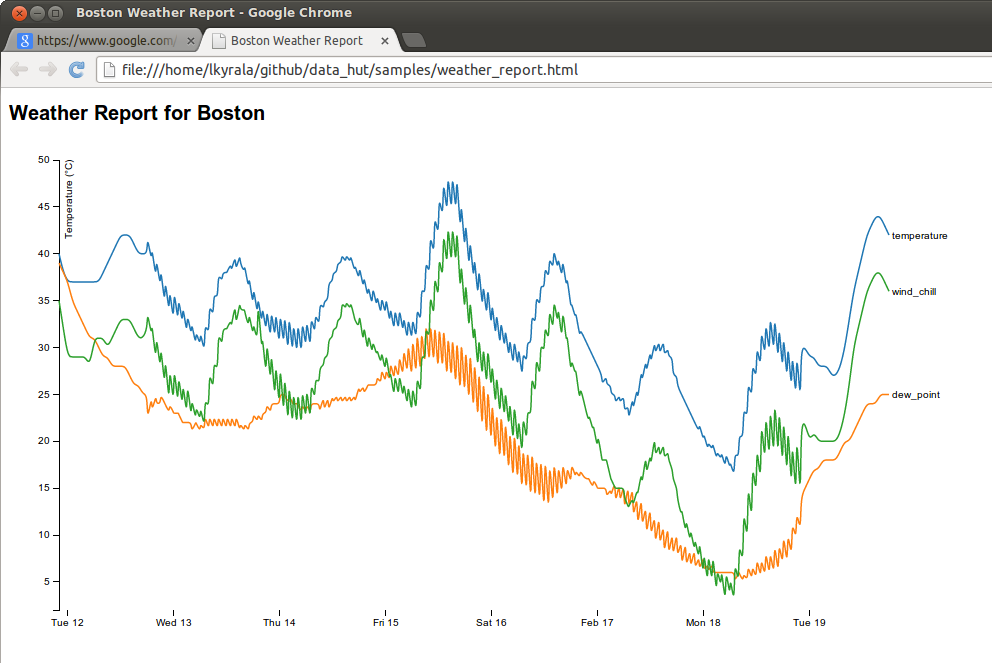
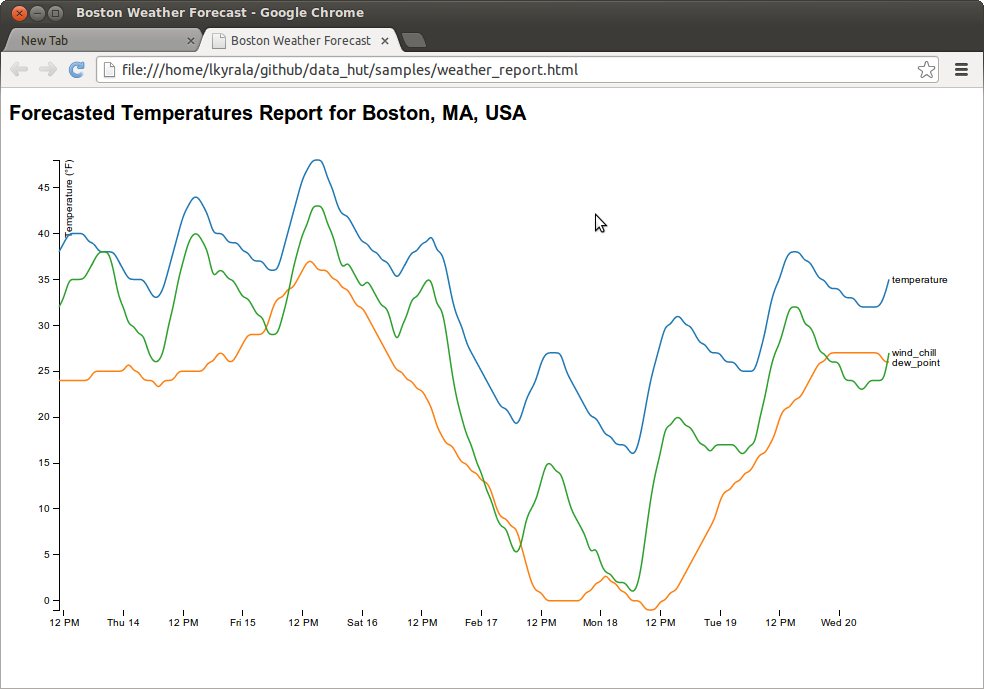
nah, changing back plus some refinements. this looks better after a single run. #marketing

diff --git a/samples/weather_files/weather.css b/samples/weather_files/weather.css
@@ -2,6 +2,10 @@ body {
   font: 10px sans-serif;
 }
 
+h1 {
+  font: 20px;
+}
+
 .axis path,
 .axis line {
   fill: none;

diff --git a/samples/weather_station.rb b/samples/weather_station.rb
@@ -3,9 +3,6 @@
 # $ rake samples
 # $ ruby weather_station.rb 
 
-# or every 10 minutes with:
-# $ yes "ruby weather_station.rb; sleep 600"|sh
-
 require_relative 'sample_helper.rb'
 
 require 'data_hut'
@@ -31,37 +28,32 @@ end
 
 
 # boston weather
-url = 'http://forecast.weather.gov/MapClick.php?lat=42.35843&lon=-71.0597732&unit=0&lg=english&FcstType=dwml'
+url = 'http://forecast.weather.gov/MapClick.php?lat=42.35830&lon=-71.06030&FcstType=digitalDWML'
 
 doc = Nokogiri::HTML(open(url))
 
-current_observations = doc.xpath('//data[@type="current observations"]').first
+# the data in this format is laid out in parallel arrays.
+start_times = doc.xpath('//time-layout/start-valid-time').collect{|n| DateTime.parse(n.text)}
+end_times = doc.xpath('//time-layout/end-valid-time').collect{|n| DateTime.parse(n.text)}
+# in F'
+temperatures = doc.xpath('//temperature[@type="hourly"]/value').collect{|n| n.text.to_f}
+dew_points = doc.xpath('//temperature[@type="dew point"]/value').collect{|n| n.text.to_f}
+wind_chills = doc.xpath('//temperature[@type="wind chill"]/value').collect{|n| n.text.to_f}
 
 dh = DataHut.connect("weather")
 
-puts "getting current observation:"
-# since the parallel arrays need to be assembled, we'll need to iterate over an index in this case...
-dh.extract((0..1)) do |r, i|
-  r.start_time = DateTime.parse(current_observations.xpath('//time-layout/start-valid-time[@period-name="current"]').text)
-  r.temperature = current_observations.xpath('//temperature[@type="apparent"]').text.to_f
-  r.dew_point = current_observations.xpath('//temperature[@type="dew point"]').text.to_f
-  r.wind_speed_kts = current_observations.xpath('//wind-speed[@type="sustained"]').text.to_f
+dh.extract((0..start_times.count-1)) do |r, i|
+  r.start_time = start_times[i]
+  r.end_time = end_times[i]
+  r.temperature = temperatures[i]
+  r.dew_point = dew_points[i]
+  r.wind_chill = wind_chills[i]
 end
-
-dh.transform do |r|
-  r.wind_speed_mph = r.wind_speed_kts * 1.15
-  # from http://en.wikipedia.org/wiki/Wind_chill
-  r.wind_chill = 35.74 + 0.6215*r.temperature - 35.75*(r.wind_speed_mph**0.16) + 0.4275*r.temperature*(r.wind_speed_mph**0.16)
-  puts "  read a value last updated at #{r.start_time}."
-end
-
-dh.transform_complete
-puts "done."
 
 ds = dh.dataset
 
 generate_report(ds)
 
-#binding.pry
+binding.pry
 
-puts "run weather_station.rb again in a few minutes to record more data."
+puts "done."
